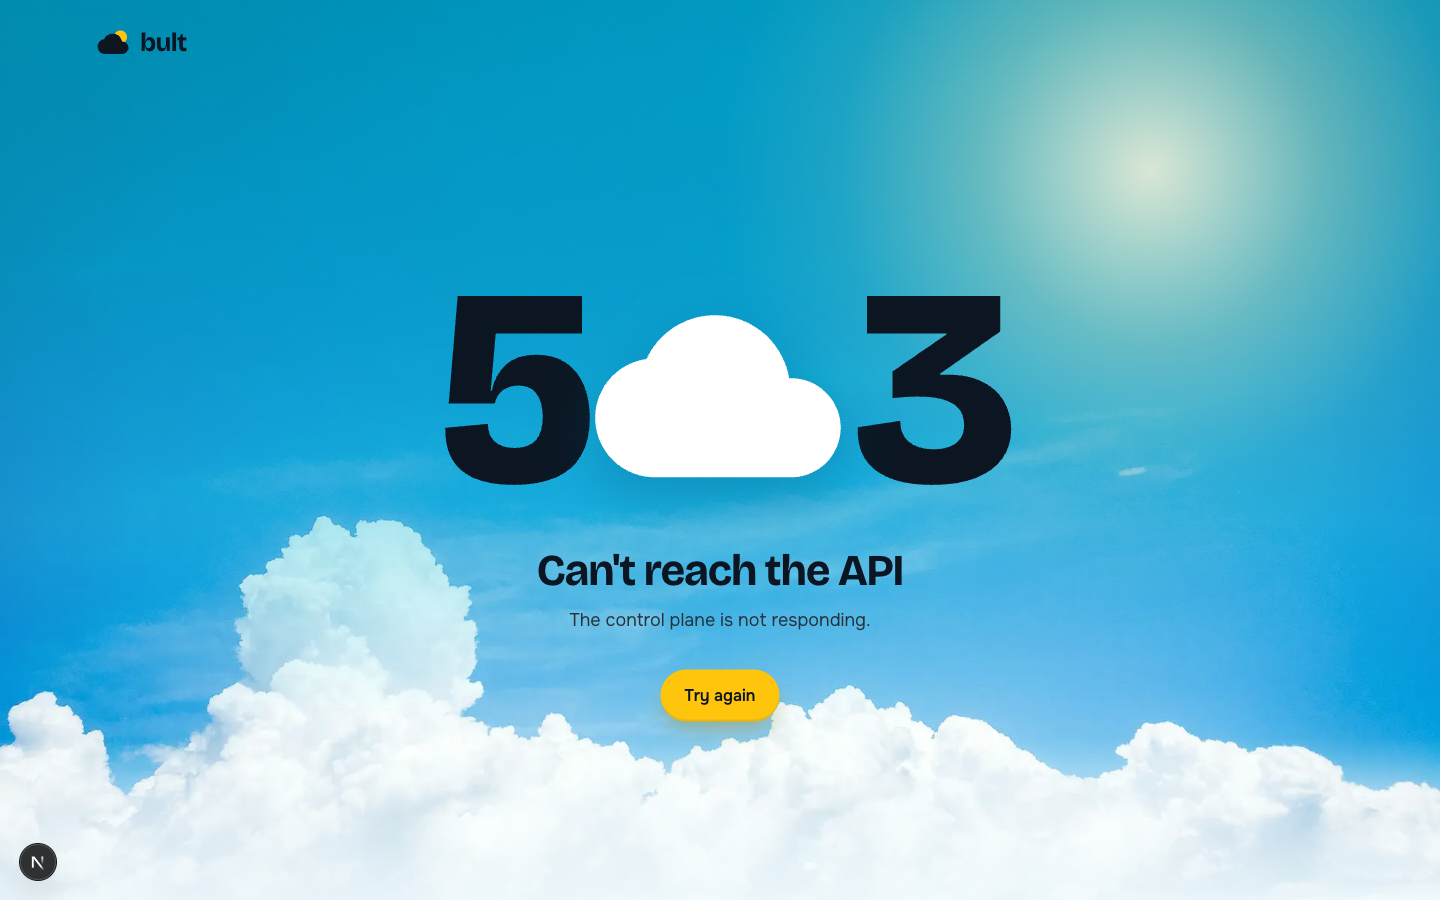
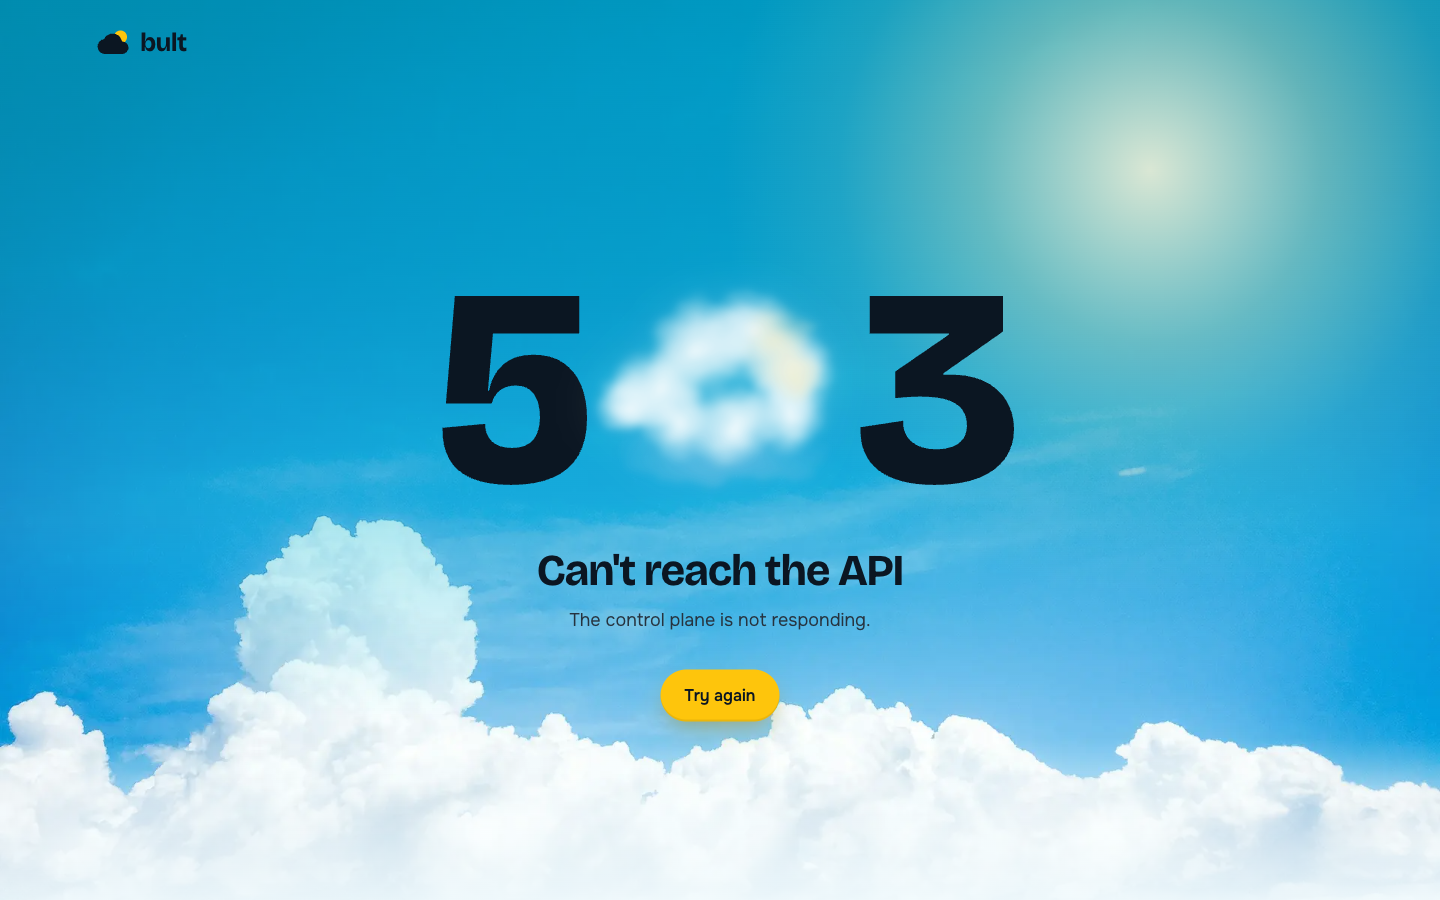
web: soft cloud on error pages

Changed region(s): [[0.4062, 0.3111, 0.5938, 0.56], [0.0, 0.9333, 0.0625, 0.9956], [0.3125, 0.3733, 0.3438, 0.4356]]

diff --git a/web/src/features/error/components/ErrorScreen.module.css b/web/src/features/error/components/ErrorScreen.module.css
@@ -99,9 +99,9 @@
 
 .cloud {
     flex: none;
-    width: 1em;
+    width: 0.9em;
     height: auto;
-    margin: 0.04em -0.04em 0;
+    margin: 0.04em 0.02em 0;
     filter: drop-shadow(0 0 22px rgba(255, 255, 255, 0.28));
     animation: float 6s ease-in-out infinite;
 }
